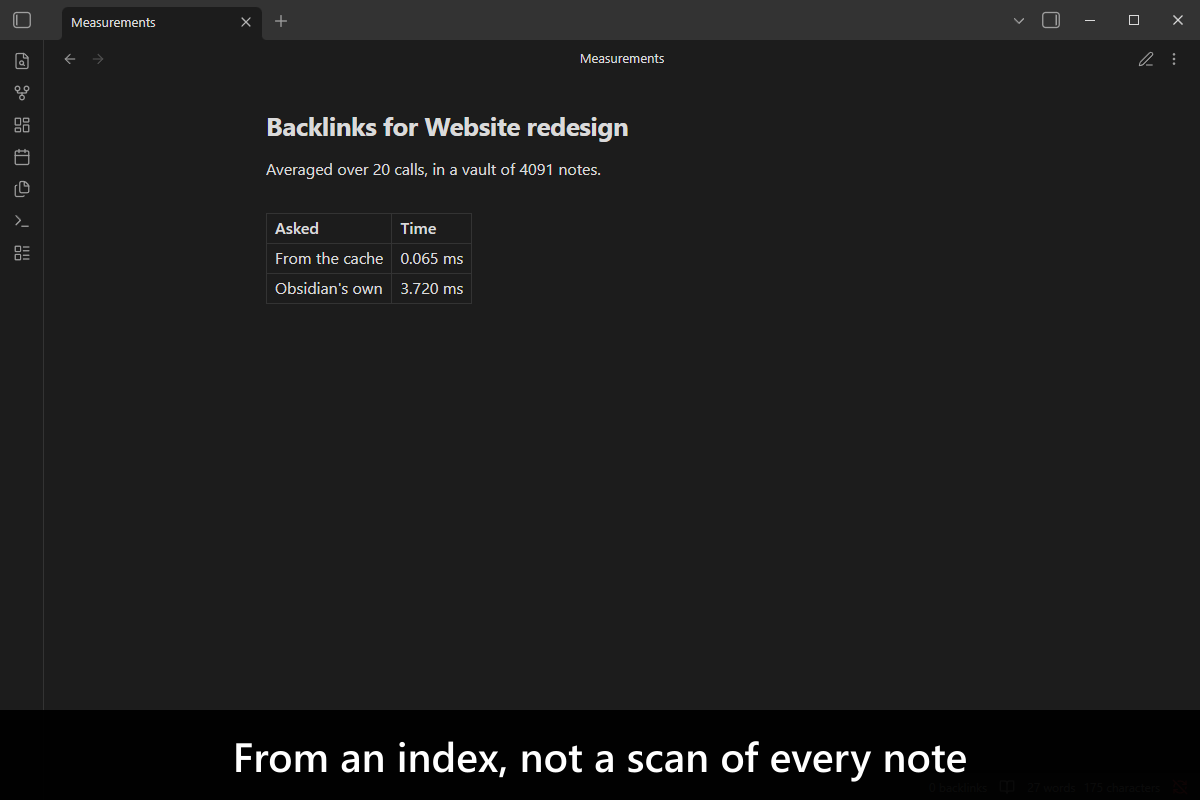
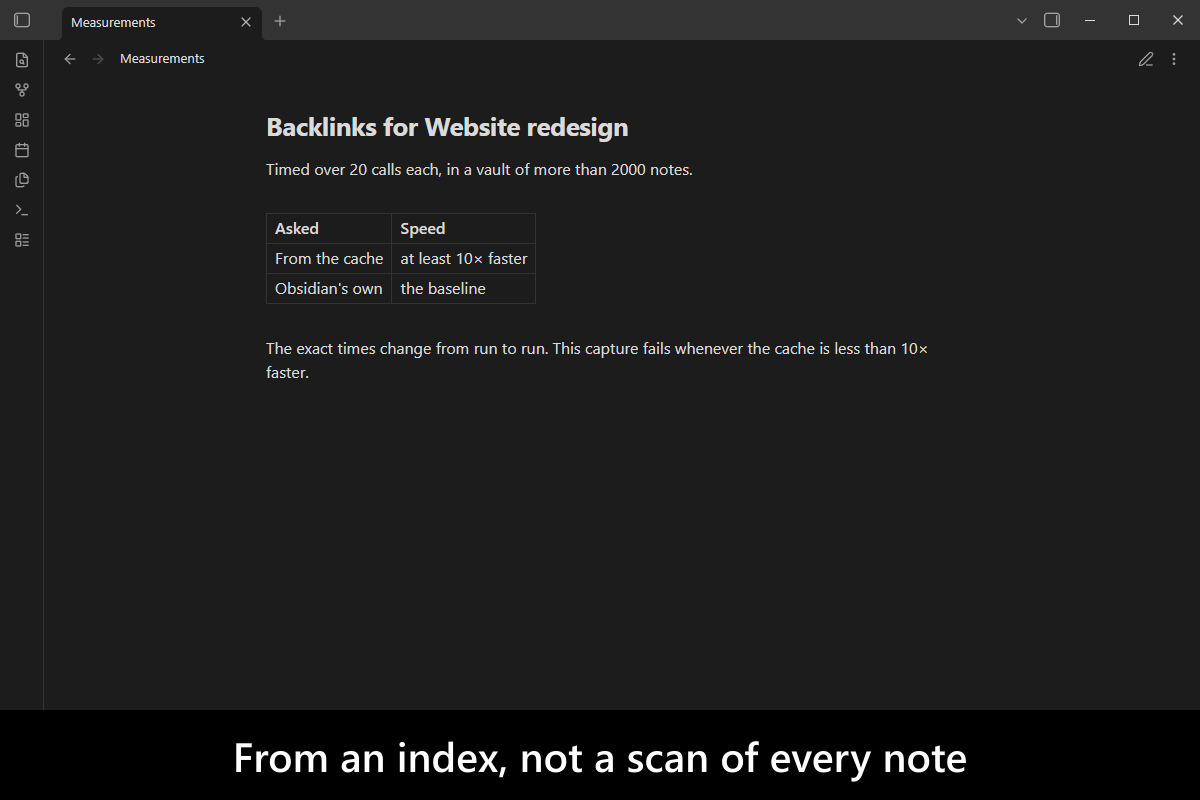
test(screenshots): print the asserted speedup floor in the Measurements frames
The two Measurements frames printed the live timings and the live note count,
which change on every run, so neither frame could be re-shot to the same bytes.
They now print fixed floors the capture asserts against the live numbers: at
least 10x faster in more than 2000 notes on desktop, at least 2x faster in
more than 500 notes on mobile. Re-shoot desktop frame 2, which two consecutive
captures now reproduce byte for byte.

diff --git a/src/screenshots.android-capture.integration.test.ts b/src/screenshots.android-capture.integration.test.ts
@@ -9,13 +9,14 @@
  * scan that is merely slow on a laptop is what makes the Backlinks pane sit and
  * think on a phone. The vault here is smaller than the desktop one — every note
  * has to be pushed onto the device before Obsidian opens it — and the difference
- * is measured on the device anyway, so the numbers in frame are the phone's.
+ * is measured on the device anyway, so the speedup in frame is the phone's.
  *
- * The numbers in frame are measured in that vault, in the same run, on the same
+ * The speedup in frame is measured in that vault, in the same run, on the same
  * note: the patched lookup, then Obsidian's own implementation reached through
- * `getBacklinksForFile.originalFn`. Nothing is quoted from a benchmark elsewhere,
- * and the assertion requires the patched path to actually be faster before the
- * frame claiming so is written.
+ * `getBacklinksForFile.originalFn`. Nothing is quoted from a benchmark elsewhere.
+ * The frame prints a fixed floor rather than the two timings, which change on
+ * every run, and the assertion requires the measured speedup to clear that floor
+ * before the frame claiming it is written.
  */
 
 import {
@@ -102,7 +103,22 @@ const FILLER_NOTE_COUNT = 400;
 const MISSING_NOTE_TOLERANCE = 3;
 
 /**
- * How much faster the cached lookup has to be before a frame may say so.
+ * How many notes the measured vault has at least, which the frame prints in
+ * place of the live count. The vault is staged at 521 notes, and the push onto
+ * the device may lose a few, so the live count would change the frame from run
+ * to run just as the timings did.
+ */
+const VAULT_SIZE_FLOOR = 500;
+
+/**
+ * How much faster the cached lookup has to be before a frame may say so, which
+ * is also the speedup the frame prints.
+ *
+ * The frame used to print the two timings themselves, and they differ on every
+ * run, so the frame could never be re-shot to the same bytes. What every run
+ * does have in common is this floor, because the capture fails below it. It is
+ * set well under what this platform measures, so an ordinary run clears it
+ * without the frame understating the result by an order of magnitude.
  */
 const REQUIRED_SPEEDUP = 2;
 
@@ -194,6 +210,7 @@ describe('mobile store screenshots', () => {
     measurement = await measureBacklinkLookups();
     // The frame reports numbers; this is what stops it reporting a lie.
     expect(measurement.cachedInMilliseconds).toBeLessThan(measurement.originalInMilliseconds / REQUIRED_SPEEDUP);
+    expect(measurement.noteCount).toBeGreaterThan(VAULT_SIZE_FLOOR);
     await shoot(2, 'From an index, not a scan of every note');
   });
 
@@ -331,7 +348,7 @@ async function compareBacklinkCounts(): Promise<BacklinkCounts> {
  */
 async function measureBacklinkLookups(): Promise<BacklinkMeasurement> {
   return await evalInObsidian({
-    async callback({ app, hubNotePath, iterations, resultNotePath }) {
+    async callback({ app, hubNotePath, iterations, requiredSpeedup, resultNotePath, vaultSizeFloor }) {
       const SETTLE_DELAY_IN_MILLISECONDS = 1500;
       const RESIZE_SETTLE_DELAY_IN_MILLISECONDS = 2000;
 
@@ -393,22 +410,36 @@ async function measureBacklinkLookups(): Promise<BacklinkMeasurement> {
         getBacklinksForFile.originalFn(file);
       });
 
+      const noteCount = app.vault.getMarkdownFiles().length;
+
+      // The live timings and note count are not printed: they change on every
+      // run, and a frame that prints them can never be re-shot to the same bytes.
+      // The floors are printed instead, and the test asserts both against these
+      // live numbers.
       await writeResultNote([
         `# Backlinks for ${file.basename}`,
         '',
-        `Averaged over ${String(iterations)} calls, in a vault of ${String(app.vault.getMarkdownFiles().length)} notes.`,
+        `Timed over ${String(iterations)} calls each, in a vault of more than ${String(vaultSizeFloor)} notes.`,
         '',
-        '| Asked | Time |',
+        '| Asked | Speed |',
         '| --- | --- |',
-        `| From the cache | ${cachedInMilliseconds.toFixed(3)} ms |`,
-        `| Obsidian's own | ${originalInMilliseconds.toFixed(3)} ms |`
+        `| From the cache | at least ${String(requiredSpeedup)}× faster |`,
+        '| Obsidian\'s own | the baseline |',
+        '',
+        `The exact times change from run to run. This capture fails whenever the cache is less than ${String(requiredSpeedup)}× faster.`
       ]);
 
       await sleep(SETTLE_DELAY_IN_MILLISECONDS);
 
-      return { cachedInMilliseconds, originalInMilliseconds };
+      return { cachedInMilliseconds, noteCount, originalInMilliseconds };
     },
-    input: { hubNotePath: HUB_NOTE_PATH, iterations: MEASUREMENT_ITERATIONS, resultNotePath: RESULT_NOTE_PATH },
+    input: {
+      hubNotePath: HUB_NOTE_PATH,
+      iterations: MEASUREMENT_ITERATIONS,
+      requiredSpeedup: REQUIRED_SPEEDUP,
+      resultNotePath: RESULT_NOTE_PATH,
+      vaultSizeFloor: VAULT_SIZE_FLOOR
+    },
     vaultPath: vaultPath()
   });
 }
@@ -548,9 +579,11 @@ interface BacklinkCounts {
 }
 
 /**
- * How long each implementation took, in milliseconds.
+ * How long each implementation took, in milliseconds, and how many notes the
+ * vault they were timed in had.
  */
 interface BacklinkMeasurement {
   readonly cachedInMilliseconds: number;
+  readonly noteCount: number;
   readonly originalInMilliseconds: number;
 }

diff --git a/src/screenshots.desktop-capture.integration.test.ts b/src/screenshots.desktop-capture.integration.test.ts
@@ -10,11 +10,12 @@
  * capture builds the condition the plugin is for: a vault of several thousand
  * notes, generated here rather than staged, with one note everything points at.
  *
- * The numbers in frame are measured in that vault, in the same run, on the same
+ * The speedup in frame is measured in that vault, in the same run, on the same
  * note: the patched lookup, then Obsidian's own implementation reached through
- * `getBacklinksForFile.originalFn`. Nothing is quoted from a benchmark elsewhere,
- * and the assertion requires the patched path to actually be faster before the
- * frame claiming so is written.
+ * `getBacklinksForFile.originalFn`. Nothing is quoted from a benchmark elsewhere.
+ * The frame prints a fixed floor rather than the two timings, which change on
+ * every run, and the assertion requires the measured speedup to clear that floor
+ * before the frame claiming it is written.
  */
 
 import {
@@ -87,9 +88,24 @@ const LINKING_NOTE_COUNT = 120;
 const FILLER_NOTE_COUNT = 4000;
 
 /**
- * How much faster the cached lookup has to be before a frame may say so.
+ * How many notes the measured vault has at least, which the frame prints in
+ * place of the live count. The vault is staged at 4,121 notes, and a desktop
+ * capture has been seen to index as few as 3,312 of them, so the live count
+ * would change the frame from run to run just as the timings did.
  */
-const REQUIRED_SPEEDUP = 2;
+const VAULT_SIZE_FLOOR = 2000;
+
+/**
+ * How much faster the cached lookup has to be before a frame may say so, which
+ * is also the speedup the frame prints.
+ *
+ * The frame used to print the two timings themselves, and they differ on every
+ * run, so the frame could never be re-shot to the same bytes. What every run
+ * does have in common is this floor, because the capture fails below it. It is
+ * set well under what this platform measures, so an ordinary run clears it
+ * without the frame understating the result by an order of magnitude.
+ */
+const REQUIRED_SPEEDUP = 10;
 
 /**
  * Where the measured numbers are written so they can be photographed. A `Notice`
@@ -162,6 +178,7 @@ describe('desktop store screenshots', () => {
     measurement = await measureBacklinkLookups();
     // The frame reports numbers; this is what stops it reporting a lie.
     expect(measurement.cachedInMilliseconds).toBeLessThan(measurement.originalInMilliseconds / REQUIRED_SPEEDUP);
+    expect(measurement.noteCount).toBeGreaterThan(VAULT_SIZE_FLOOR);
     await shoot(2, 'From an index, not a scan of every note');
   });
 
@@ -298,7 +315,7 @@ async function compareBacklinkCounts(): Promise<BacklinkCounts> {
  */
 async function measureBacklinkLookups(): Promise<BacklinkMeasurement> {
   return await evalInObsidian({
-    async callback({ app, hubNotePath, iterations, resultNotePath }) {
+    async callback({ app, hubNotePath, iterations, requiredSpeedup, resultNotePath, vaultSizeFloor }) {
       const SETTLE_DELAY_IN_MILLISECONDS = 1500;
       const RESIZE_SETTLE_DELAY_IN_MILLISECONDS = 2000;
 
@@ -360,22 +377,36 @@ async function measureBacklinkLookups(): Promise<BacklinkMeasurement> {
         getBacklinksForFile.originalFn(file);
       });
 
+      const noteCount = app.vault.getMarkdownFiles().length;
+
+      // The live timings and note count are not printed: they change on every
+      // run, and a frame that prints them can never be re-shot to the same bytes.
+      // The floors are printed instead, and the test asserts both against these
+      // live numbers.
       await writeResultNote([
         `# Backlinks for ${file.basename}`,
         '',
-        `Averaged over ${String(iterations)} calls, in a vault of ${String(app.vault.getMarkdownFiles().length)} notes.`,
+        `Timed over ${String(iterations)} calls each, in a vault of more than ${String(vaultSizeFloor)} notes.`,
         '',
-        '| Asked | Time |',
+        '| Asked | Speed |',
         '| --- | --- |',
-        `| From the cache | ${cachedInMilliseconds.toFixed(3)} ms |`,
-        `| Obsidian's own | ${originalInMilliseconds.toFixed(3)} ms |`
+        `| From the cache | at least ${String(requiredSpeedup)}× faster |`,
+        '| Obsidian\'s own | the baseline |',
+        '',
+        `The exact times change from run to run. This capture fails whenever the cache is less than ${String(requiredSpeedup)}× faster.`
       ]);
 
       await sleep(SETTLE_DELAY_IN_MILLISECONDS);
 
-      return { cachedInMilliseconds, originalInMilliseconds };
+      return { cachedInMilliseconds, noteCount, originalInMilliseconds };
     },
-    input: { hubNotePath: HUB_NOTE_PATH, iterations: MEASUREMENT_ITERATIONS, resultNotePath: RESULT_NOTE_PATH },
+    input: {
+      hubNotePath: HUB_NOTE_PATH,
+      iterations: MEASUREMENT_ITERATIONS,
+      requiredSpeedup: REQUIRED_SPEEDUP,
+      resultNotePath: RESULT_NOTE_PATH,
+      vaultSizeFloor: VAULT_SIZE_FLOOR
+    },
     vaultPath: vaultPath()
   });
 }
@@ -514,9 +545,11 @@ interface BacklinkCounts {
 }
 
 /**
- * How long each implementation took, in milliseconds.
+ * How long each implementation took, in milliseconds, and how many notes the
+ * vault they were timed in had.
  */
 interface BacklinkMeasurement {
   readonly cachedInMilliseconds: number;
+  readonly noteCount: number;
   readonly originalInMilliseconds: number;
 }
